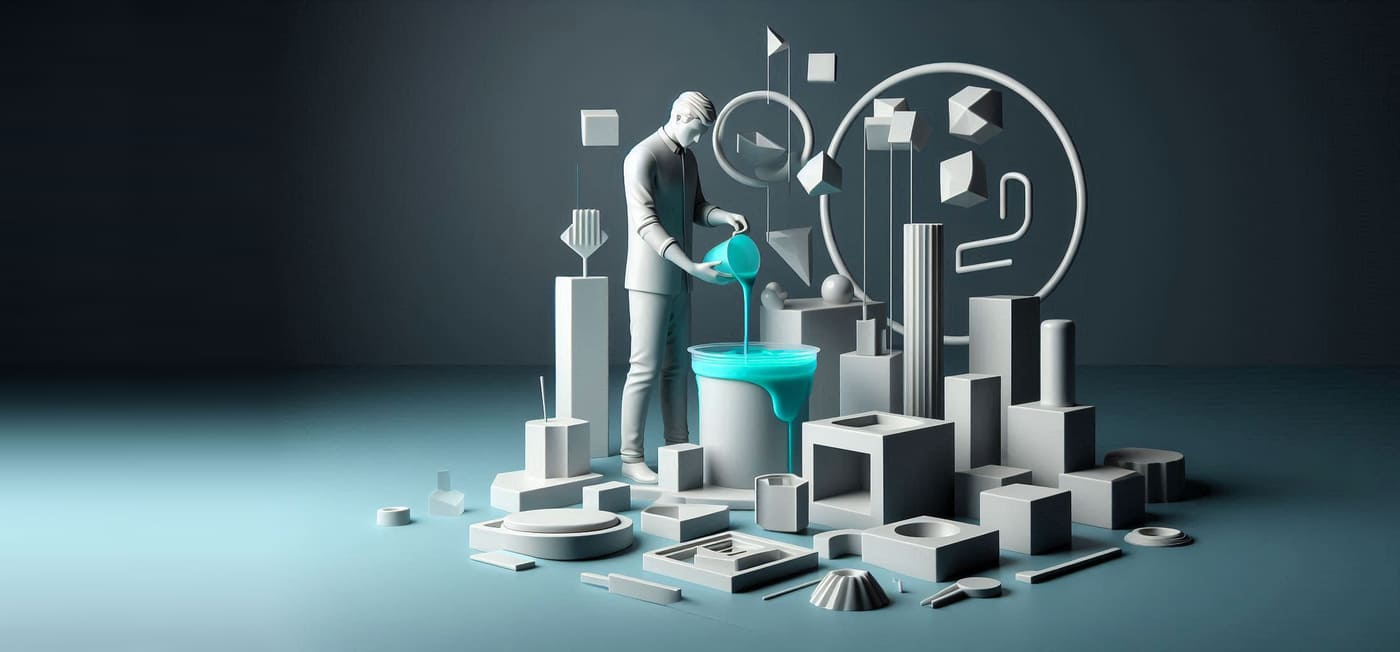
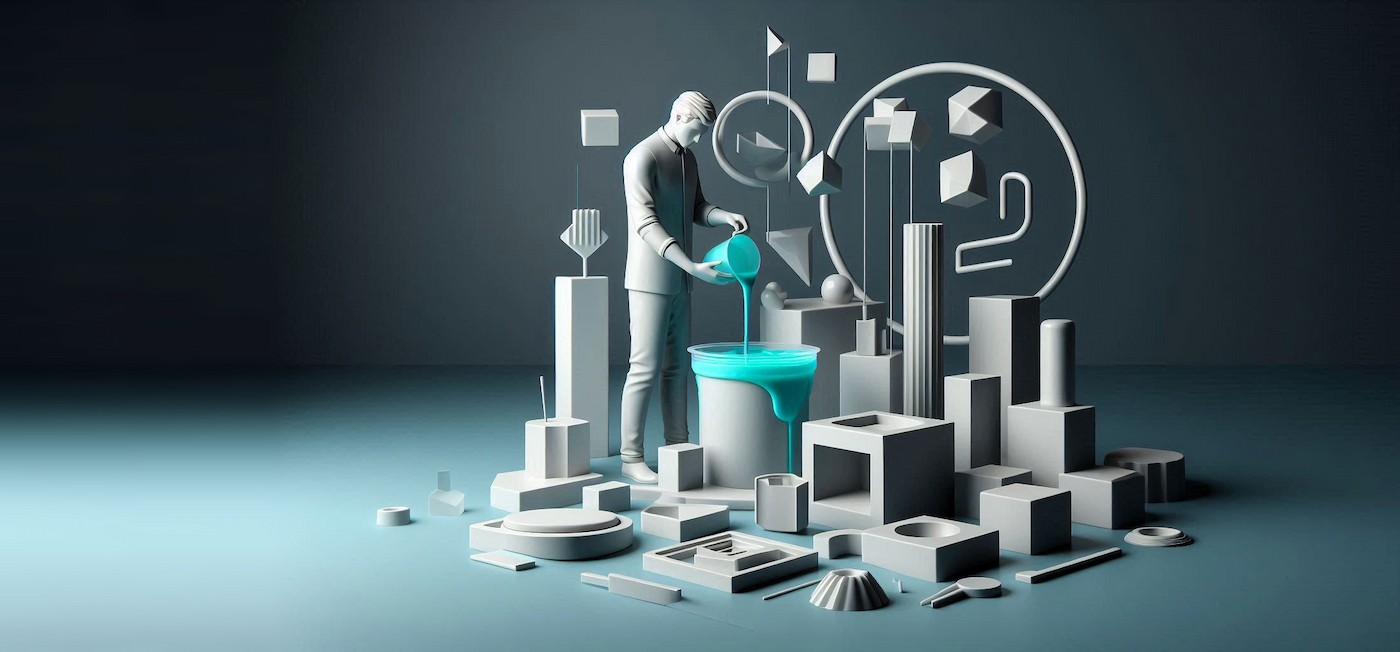
Optimized images in home intro section

Changed region(s): [[0.645, 0.3374, 0.6757, 0.3681]]

diff --git a/src/components/home-components/section-intro/section-intro.tsx b/src/components/home-components/section-intro/section-intro.tsx
@@ -5,15 +5,13 @@ import useIntersectionObserver from '@/hooks/use-intersection-observer';
 import { textSectionIntro } from '@/texts/home/text-section-intro';
 import SectionIntroHeader from './section-intro-header/section-intro-header';
 import { useLanguage } from '@/hooks/use-language';
+import useMediaQuery from '@/hooks/use-media-query';
 
 export default function SectionIntro() {
   const language = useLanguage();
 
-  const {
-    caption,
-    ourProducts,
-    // illustrationLargeAlt, illustrationSmallAlt
-  } = textSectionIntro[language];
+  const { caption, ourProducts, illustrationLargeAlt, illustrationSmallAlt } =
+    textSectionIntro[language];
 
   const [isObserved, setIsObserved] = useState(false);
 
@@ -23,8 +21,10 @@ export default function SectionIntro() {
     0,
   );
 
-  // eslint-disable-next-line no-console
-  // console.log(window.devicePixelRatio);
+  const isLargeScreen = useMediaQuery(1024);
+  const chooseAlt = () => {
+    return isLargeScreen ? illustrationLargeAlt : illustrationSmallAlt;
+  };
 
   return (
     <div className={css.container} ref={introSectionRef}>
@@ -39,21 +39,20 @@ export default function SectionIntro() {
           </ul>
         </div>
 
-        {/* for desktop > 1024px */}
-        {/* <img
-          src="intro/intro-scene.jpg"
-          alt={illustrationLargeAlt}
-          className={css.illustrationLarge}
-          // loading="lazy"
-        /> */}
-
         <picture>
+          <source
+            media="(max-width: 768px)"
+            srcSet="
+            /intro/dragon_400.webp 400w, 
+            /intro/dragon_400.png 400w"
+            sizes="80vw"
+          />
           <source
             media="(max-width: 1024px)"
             srcSet="
-            /intro/dragon_400.webp 400w,
             /intro/dragon_795.webp 795w,
             /intro/dragon_795.png 795w"
+            sizes="40vw"
           />
           <source
             media="(min-width: 1024px)"
@@ -64,22 +63,15 @@ export default function SectionIntro() {
             /intro/intro_scene_1920.jpg 1920w,
              /intro/intro_scene_2200.webp 2200w,
              /intro/intro_scene_2200.jpg 2200w"
-            // sizes="100vw"
           />
           <img
             src="/intro/intro_scene_1400.jpg"
-            alt=""
-            className={css.illustration}
+            alt={chooseAlt()}
+            className={cx(css.illustration, isObserved && css.animated)}
+            fetchPriority="high"
             sizes="100vw"
           />
         </picture>
-
-        {/* for tablet <= 1024px */}
-        {/* <img
-          src="intro/dragon.png"
-          alt={illustrationSmallAlt}
-          className={cx(css.illustrationSmall, isObserved && css.animated)}
-        /> */}
       </section>
     </div>
   );

diff --git a/src/components/home-components/section-intro/section-intro.module.scss b/src/components/home-components/section-intro/section-intro.module.scss
@@ -14,11 +14,9 @@
     .mainContent {
         .illustration {
             width: 100%;
+            height: auto;
+            aspect-ratio: 275 / 128;
         }
-
-        // .illustrationSmall {
-        //     display: none;
-        // }
 
         .listLimit {
             max-width: $content-width-main;
@@ -86,24 +84,12 @@
             grid-template-columns: 50% 50%;
             padding: 1rem 0;
 
-            // .illustrationLarge {
-            //     display: none;
-            // }
-
-            // .illustrationSmall {
-            //     display: block;
-            //     width: 80%;
-            //     align-self: center;
-            //     padding: 1rem;
-            // }
             .illustration {
                 display: block;
                 width: 80%;
                 align-self: center;
                 padding: 1rem;
             }
-
-
 
             .listLimit {
                 align-self: center;
@@ -128,11 +114,6 @@
             flex-direction: column-reverse;
             overflow: hidden;
 
-            // .illustrationSmall {
-            //     width: 20rem;
-            //     max-width: 95%;
-            //     @include transitionSlideDown;
-            // }
             .illustration {
                 width: 20rem;
                 max-width: 95%;

diff --git a/src/components/home-components/section-marketing/section-marketing.tsx b/src/components/home-components/section-marketing/section-marketing.tsx
@@ -35,6 +35,7 @@ export default function SectionMarketing() {
               src={statement.img}
               alt={statement.alt}
               className={css.statementIllustration}
+              loading="lazy"
             />
             <article>
               <h3 className={css.question}>&#128269; {statement.question}</h3>
